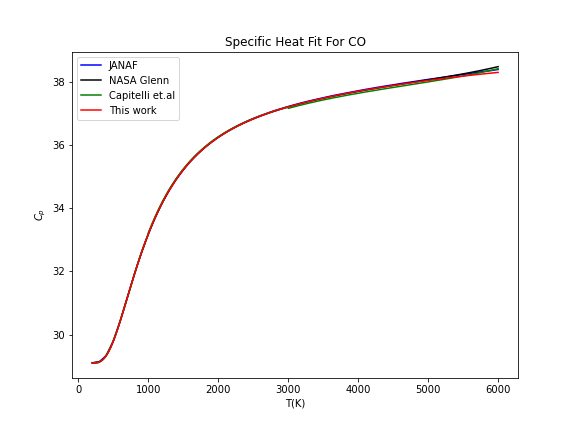
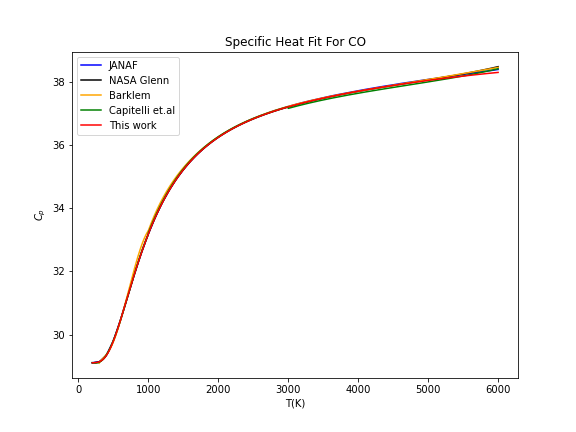
Add Barklem data from Juncai

diff --git a/Cp.py b/Cp.py
@@ -284,6 +284,22 @@ def get_Burcat():
             coe_Burcat[species]=coefficients_Burcat
     return coe_Burcat
 
+# Generate a dictionary storing the specific heat fit coefficients from Barklem
+def get_Barklem(): 
+    Barklem=np.loadtxt("Other_Cp/Barklem_fit.csv",delimiter=",",usecols=(1,2,3,4,5,6,7))
+    Barklem_specials=['ClO','CO','CS','H2','HBr','HCl','HF','HI','N2','NO','O2','OH','SO']
+    coe_Barklem=dict()
+    for i in range(len(Barklem_specials)):
+        n=i*2
+        species=Barklem_specials[i]
+        coefficients_Barklem = np.zeros([2, 7])
+        for ii in range(2):
+            coefficients_Barklem[ii,]=Barklem[n]
+            n+=1
+        if species not in coe_Barklem:
+            coe_Barklem[species]=coefficients_Barklem
+    return coe_Barklem
+
 # Read and store the coefficients from original nasa glenn polynomials
 def get_nasa(Cp_dict):
 
@@ -431,7 +447,7 @@ def compare_difference(di_J_dict, di_nasa_dict, di_Burcat_dict,di_Ca_dict, T_di_
     return diff_dict  
 
 # Using plots to compare the results with existing data
-def compare_and_plot_Cp(Cp_dict,Tmax_dict,Cp_JANAF,coe_Capitelli,coe_nasa,coe_Burcat,Tmax_this,Cp_theorets):
+def compare_and_plot_Cp(Cp_dict,Tmax_dict,Cp_JANAF,coe_Capitelli,coe_nasa,coe_Burcat,coe_Barklem,Tmax_this,Cp_theorets):
     di_J_dict=dict()
     di_nasa_dict=dict()
     di_Ca_dict=dict()
@@ -510,6 +526,29 @@ def compare_and_plot_Cp(Cp_dict,Tmax_dict,Cp_JANAF,coe_Capitelli,coe_nasa,coe_Bu
                 di_Burcat_dict[species]=T_di_Burcat
             plt.plot(x_Burcat,Cp_fit_Burcat,color='green',label="Burcat") 
 
+        # plot specific heat using original nasa glenn polynomials
+        if species in coe_Barklem:
+            other_data=True
+            if Tmax<=1000:
+                x_Barklem=np.arange(298.15, Tmax+1., 1.0)
+                coefficient_Barklem=coe_Barklem[species][0]
+                Cp_fit_Barklem=get_polynomial_results(coefficient_Barklem,x_Barklem)
+            else:
+                x_Barklem1=np.arange(298.15, 1000, 1.0)
+                coefficient_Barklem1=coe_Barklem[species][0]
+                Cp_fit_Barklem1=get_polynomial_results(coefficient_Barklem1,x_Barklem1)
+                x_Barklem2=np.arange(1000, Tmax+1., 1.0)
+                coefficient_Barklem2=coe_Barklem[species][1]
+                Cp_fit_Barklem2=get_polynomial_results(coefficient_Barklem2,x_Barklem2)
+                x_Barklem=np.hstack((x_Barklem1,x_Barklem2))
+                Cp_fit_Barklem=np.hstack(( Cp_fit_Barklem1, Cp_fit_Barklem2))
+
+            # T_Burcat_di,di_Burcat=get_difference(Cp_dict,x_Burcat,Cp_fit_Burcat,species)
+            # T_di_Burcat=np.vstack((T_Burcat_di,di_Burcat))
+            # if species not in di_Burcat_dict:
+            #     di_Burcat_dict[species]=T_di_Burcat
+            plt.plot(x_Barklem,Cp_fit_Barklem,color='orange',label="Barklem") 
+
         if species in coe_Capitelli:
             other_data=True
             T_middle=1000
@@ -558,7 +597,7 @@ def compare_and_plot_Cp(Cp_dict,Tmax_dict,Cp_JANAF,coe_Capitelli,coe_nasa,coe_Bu
             T_di_Furtenbacher_O2=np.vstack((T_Furtenbacher_di_O2,di_Furtenbacher_O2))
             plt.plot(T_Furtenbacher,Cp_Furtenbacher,color='purple',label="Furtenbacher et.al")
             T_Gurvich,Cp_Gurvich=np.loadtxt("Other_Cp/O2_Gurvich.txt",usecols=(0,1),unpack=True)
-            plt.scatter(T_Gurvich,Cp_Gurvich,color="orange",marker="x",label="Gurvich")
+            plt.scatter(T_Gurvich,Cp_Gurvich,color="hotpink",marker="x",label="Gurvich")
             T_Jaffe,Cp_Jaffe=np.loadtxt("Other_Cp/O2_Jaffe.txt",usecols=(0,1),unpack=True)
             plt.scatter(T_Jaffe,Cp_Jaffe,color="gray",marker="x",label="Jaffe")
         if species=='N2':
@@ -765,8 +804,8 @@ def store_coefficients(Tmax_dict,fit_dictionary):
             a7_list.append(coefficient_temp[i][6])
 
         
-    fit_data = pd.DataFrame({'Molecule': molecule_list, 'Tmin':Tmin_list,'Tmax': Tmax_list,'a1':a1_list,'a2': a2_list,'a3': a3_list,'a4': a4_list,'a5': a5_list,'a6': a6_list,'a7': a7_list})
-    fit_data.to_csv("fit_coefficients.csv",index=False)
+    # fit_data = pd.DataFrame({'Molecule': molecule_list, 'Tmin':Tmin_list,'Tmax': Tmax_list,'a1':a1_list,'a2': a2_list,'a3': a3_list,'a4': a4_list,'a5': a5_list,'a6': a6_list,'a7': a7_list})
+    # fit_data.to_csv("fit_coefficients.csv",index=False)
 
 def calculate_and_plot_residuals(Tmax_this,Cp_dict,fit_dictionary):
     residual_dict=dict()
@@ -849,9 +888,10 @@ if __name__ == '__main__':
     coe_Capitelli=get_Capitelli()
     coe_Burcat=get_Burcat()
     coe_nasa=get_nasa(Cp_dict)
+    coe_Barklem=get_Barklem()    
     Tmax_this=get_Tmax_this(Tmax_hitran)
-    di_J_dict, di_nasa_dict, di_Burcat_dict,di_Ca_dict, T_di_Furtenbacher, T_di_Furtenbacher_O2, T_di_SS_N, T_di_SS_P=compare_and_plot_Cp(Cp_dict,Tmax_hitran,Cp_JANAF,coe_Capitelli,coe_nasa,coe_Burcat,Tmax_this,Cp_theorets)
-    diff_dict=compare_difference(di_J_dict, di_nasa_dict,di_Burcat_dict, di_Ca_dict, T_di_Furtenbacher, T_di_Furtenbacher_O2,T_di_SS_N, T_di_SS_P,Cp_dict,Tmax_this)
+    di_J_dict, di_nasa_dict, di_Burcat_dict,di_Ca_dict, T_di_Furtenbacher, T_di_Furtenbacher_O2, T_di_SS_N, T_di_SS_P=compare_and_plot_Cp(Cp_dict,Tmax_hitran,Cp_JANAF,coe_Capitelli,coe_nasa,coe_Burcat,coe_Barklem,Tmax_this,Cp_theorets)
+    # diff_dict=compare_difference(di_J_dict, di_nasa_dict,di_Burcat_dict, di_Ca_dict, T_di_Furtenbacher, T_di_Furtenbacher_O2,T_di_SS_N, T_di_SS_P,Cp_dict,Tmax_this)
     # fit_dictionary=get_coefficients(Cp_dict,Tmax_this)
     # store_coefficients(Tmax_this,fit_dictionary)
     # residual_dict=calculate_and_plot_residuals(Tmax_this,Cp_dict,fit_dictionary)
@@ -871,6 +911,7 @@ diff_dict['HNO3']
 coe_Capitelli=get_Capitelli()
 coe_Capitelli['CO']
 # %%
+coe_Barklem['HI']
 # %%
 
 
